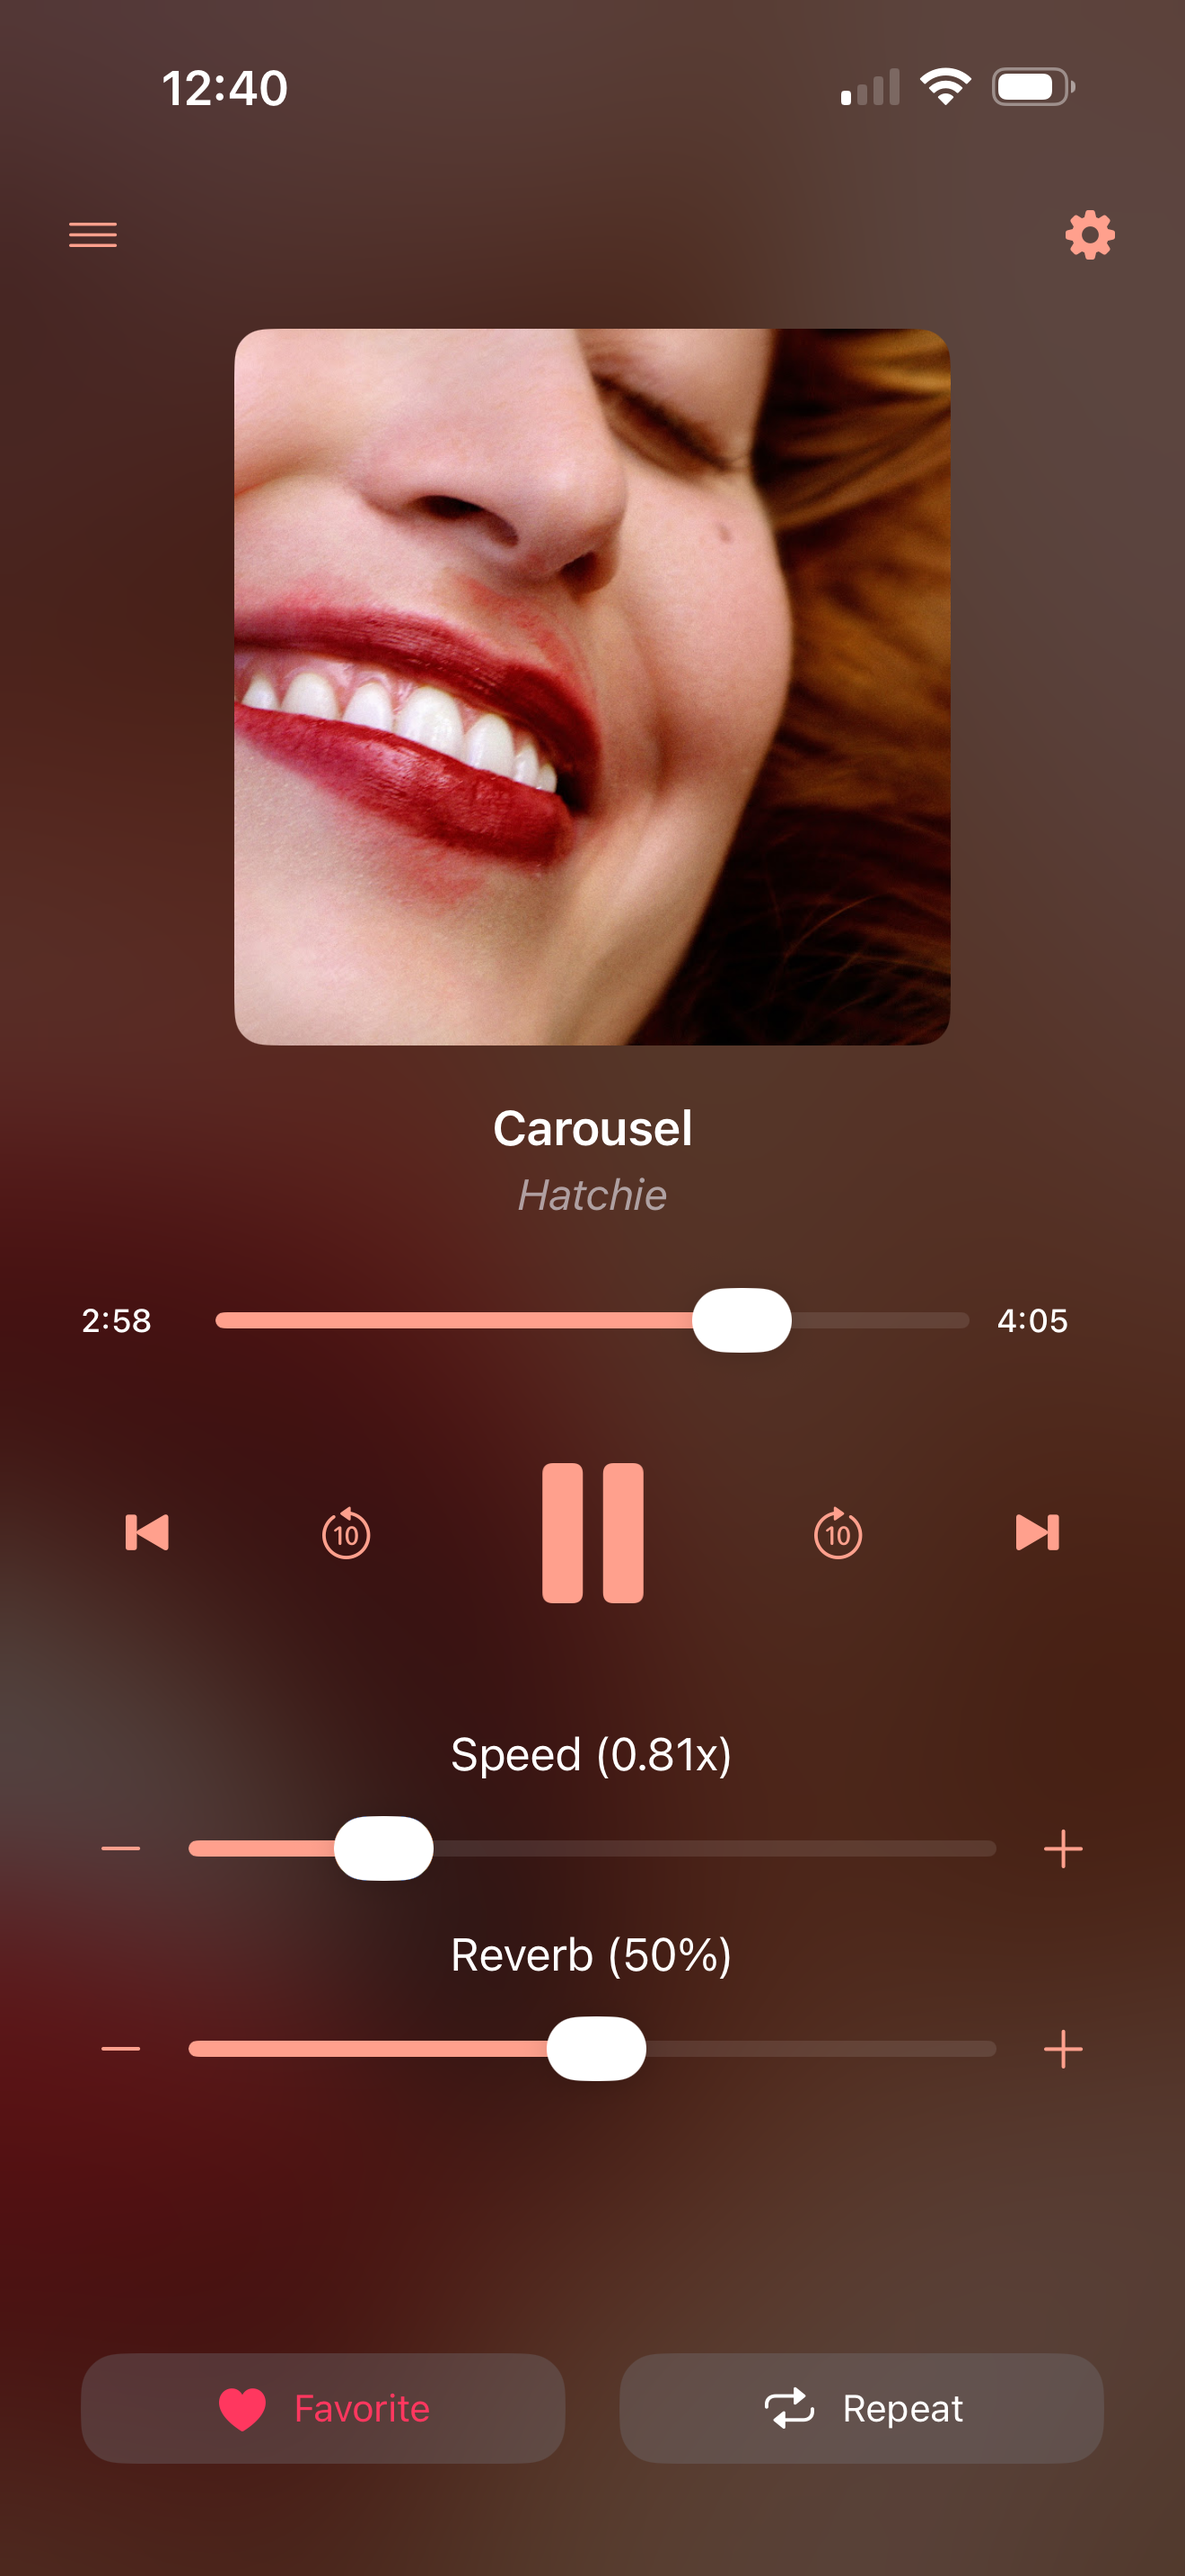
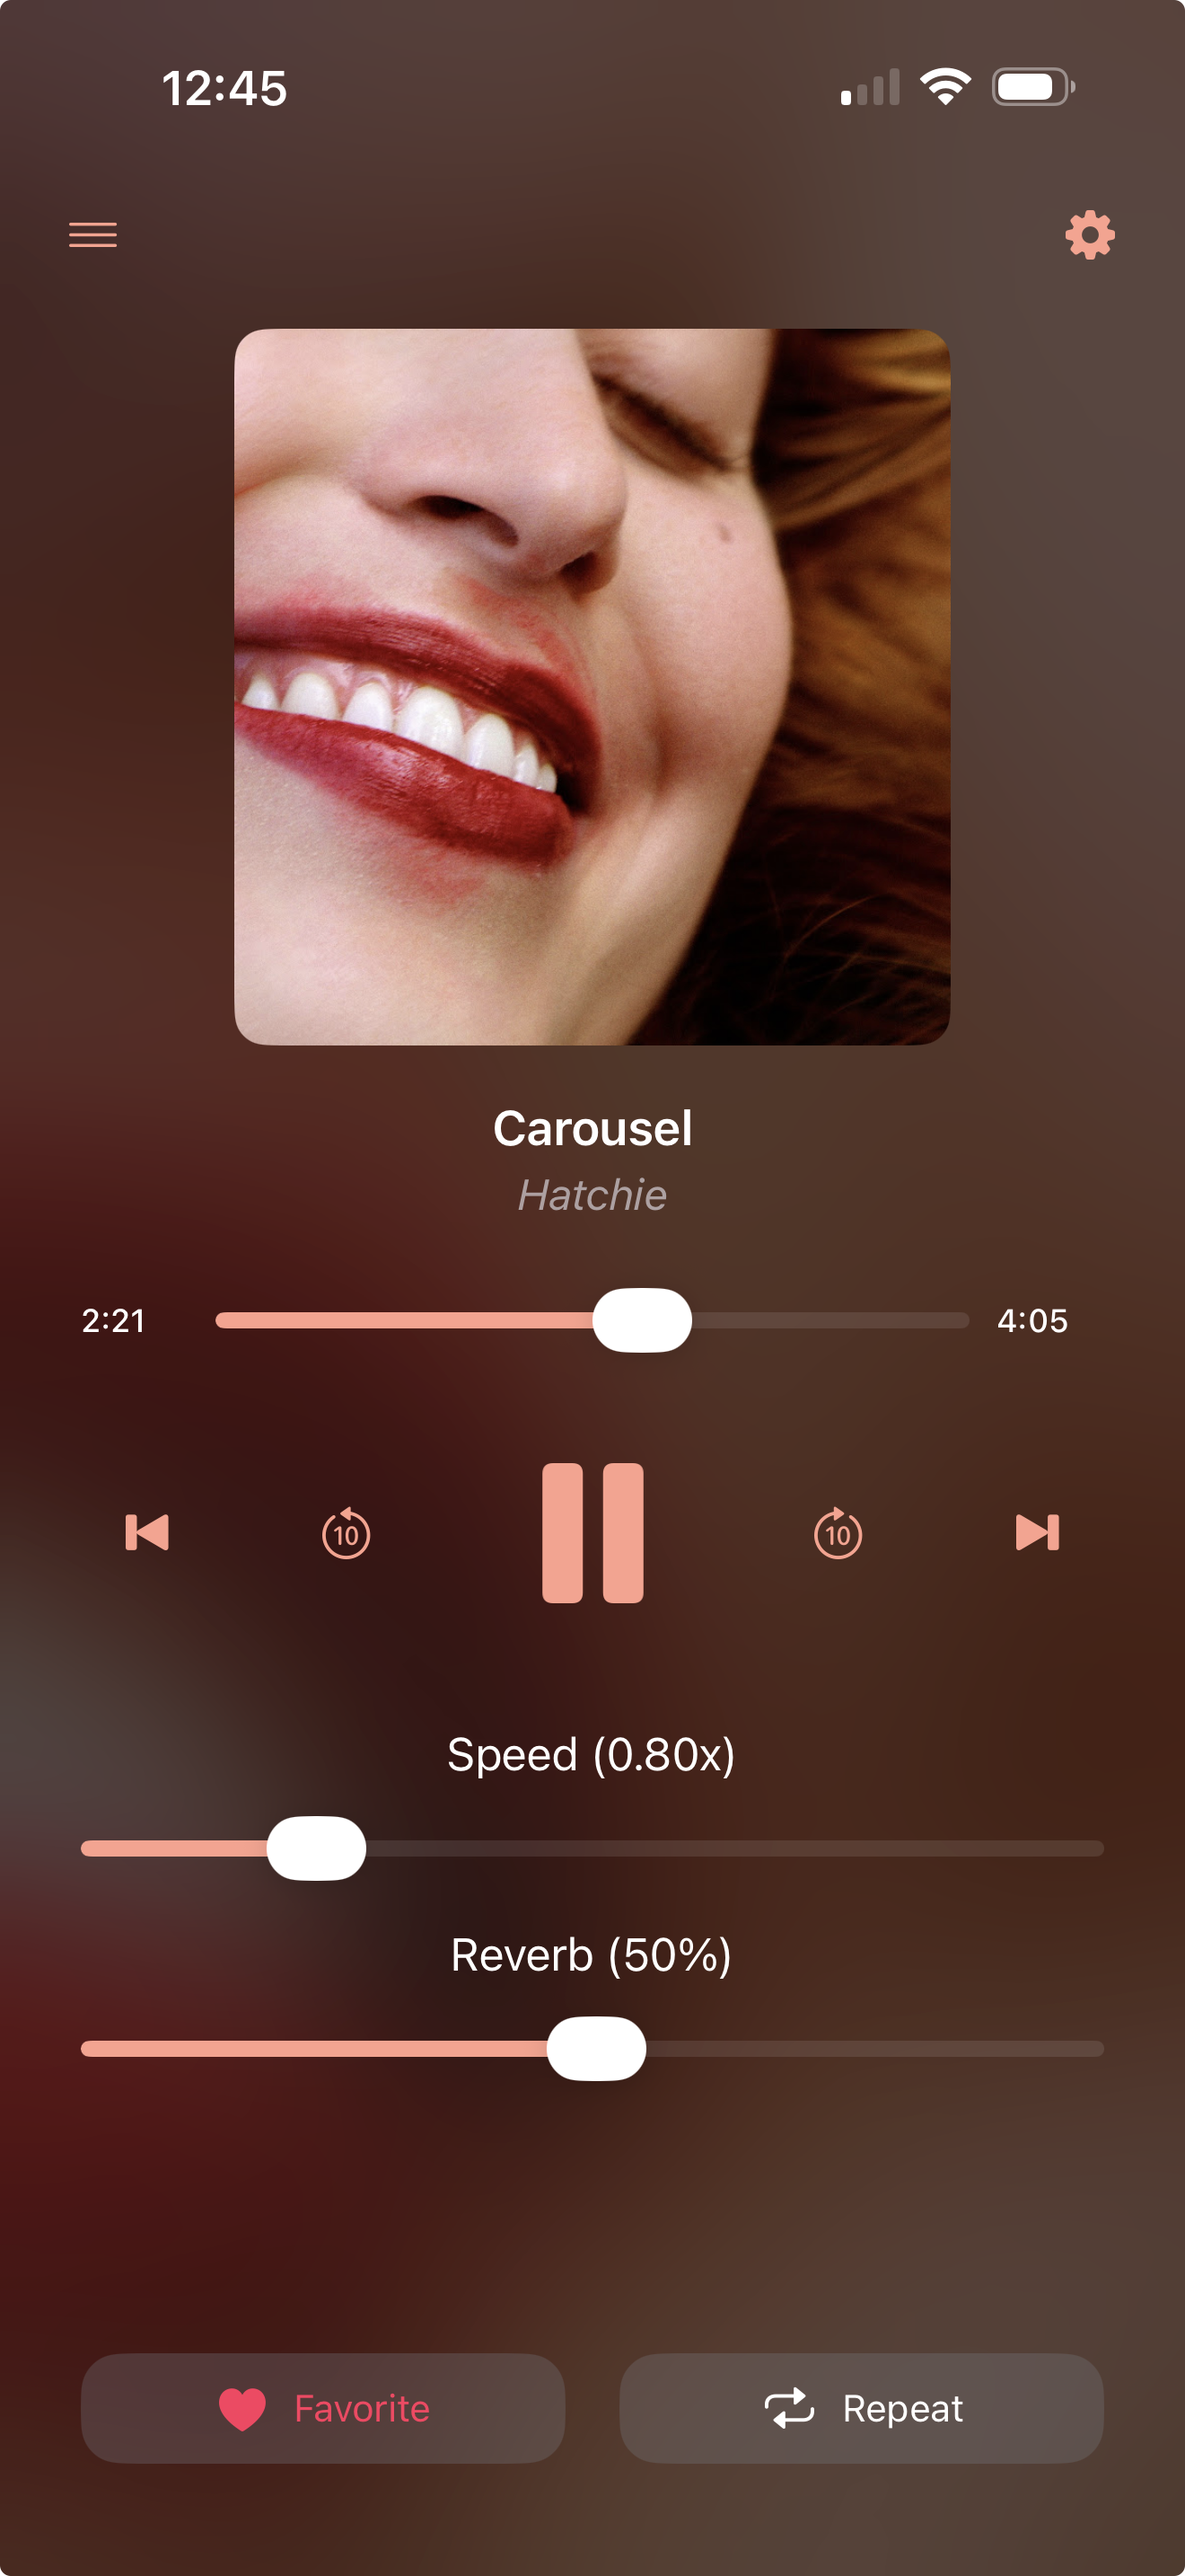
Fix Slider Position on Startup
Slider position for pitch, speed and reverb now remember what they were when closing and starting up the app again

diff --git a/slowedandreverb/slowedandreverbApp.swift b/slowedandreverb/slowedandreverbApp.swift
@@ -3592,11 +3592,28 @@ class AudioEffectsViewController: UIViewController, SettingsViewControllerDelega
     private var currentQueueIndex: Int = -1
     private var currentPresetIndex: Int?
     
+    // Cached initial values
+    private var initialSavedPitch: Float = 0
+    private var initialSavedSpeed: Float = 1.0
+    private var initialSavedReverb: Float = 0
+    private var initialSavedBass: Float = 0
+    private var initialSavedMids: Float = 0
+    private var initialSavedTreble: Float = 0
+
     // MARK: View Lifecycle
     
     private var hasLoadedInitialState = false
 
     override func viewDidLoad() {
+        // Cache initial slider values before any UI initialization can overwrite them
+        self.initialSavedPitch = UserDefaults.standard.float(forKey: "pitchValue")
+        let savedSpeedObj = UserDefaults.standard.object(forKey: "speedValue")
+        self.initialSavedSpeed = savedSpeedObj != nil ? UserDefaults.standard.float(forKey: "speedValue") : 1.0
+        self.initialSavedReverb = UserDefaults.standard.float(forKey: "reverbValue")
+        self.initialSavedBass = UserDefaults.standard.float(forKey: "bassValue")
+        self.initialSavedMids = UserDefaults.standard.float(forKey: "midsValue")
+        self.initialSavedTreble = UserDefaults.standard.float(forKey: "trebleValue")
+        
         self.isAccurateSpeedEnabled = UserDefaults.standard.bool(forKey: "isAccurateSpeedEnabled")
         self.isAccuratePitchEnabled = UserDefaults.standard.bool(forKey: "isAccuratePitchEnabled")
         self.isLoopingEnabled = UserDefaults.standard.bool(forKey: "isLoopingEnabled")
@@ -4286,7 +4303,9 @@ class AudioEffectsViewController: UIViewController, SettingsViewControllerDelega
         
         // Reset to initial values
         if isHidden || !isRememberSettingsEnabled {
-            resetSliders()
+            if hasLoadedInitialState {
+                resetSliders()
+            }
         }
         
         playPauseButton.setImage(UIImage(systemName: "play.fill"), for: .normal)
@@ -4384,6 +4403,10 @@ class AudioEffectsViewController: UIViewController, SettingsViewControllerDelega
     
     private func setupStatePersistence() {
         NotificationCenter.default.addObserver(self, selector: #selector(savePlaybackPosition), name: UIApplication.didEnterBackgroundNotification, object: nil)
+        NotificationCenter.default.addObserver(self, selector: #selector(savePlaybackPosition), name: UIApplication.willTerminateNotification, object: nil)
+        if #available(iOS 13.0, *) {
+            NotificationCenter.default.addObserver(self, selector: #selector(savePlaybackPosition), name: UIScene.didDisconnectNotification, object: nil)
+        }
     }
     
     @objc private func savePlaybackPosition() {
@@ -4474,28 +4497,22 @@ class AudioEffectsViewController: UIViewController, SettingsViewControllerDelega
                 loadSong(song, andPlay: false)
             
                 // Restore slider values AFTER loading the song so they aren't reset to defaults
-                let pitch = UserDefaults.standard.float(forKey: "pitchValue")
-                pitchSlider.value = pitch
+                pitchSlider.value = initialSavedPitch
                 pitchSliderChanged(pitchSlider)
                 
-                let speed = UserDefaults.standard.float(forKey: "speedValue")
-                speedSlider.value = speed != 0 ? speed : 1.0 // Default to 1.0 if not set
+                speedSlider.value = initialSavedSpeed != 0 ? initialSavedSpeed : 1.0 // Default to 1.0 if not set
                 speedSliderChanged(speedSlider)
                 
-                let reverb = UserDefaults.standard.float(forKey: "reverbValue")
-                reverbSlider.value = reverb
+                reverbSlider.value = initialSavedReverb
                 reverbSliderChanged(reverbSlider)
                 
-                let bass = UserDefaults.standard.float(forKey: "bassValue")
-                bassSlider.value = bass
+                bassSlider.value = initialSavedBass
                 bassSliderChanged(bassSlider)
                 
-                let mids = UserDefaults.standard.float(forKey: "midsValue")
-                midsSlider.value = mids
+                midsSlider.value = initialSavedMids
                 midsSliderChanged(midsSlider)
                 
-                let treble = UserDefaults.standard.float(forKey: "trebleValue")
-                trebleSlider.value = treble
+                trebleSlider.value = initialSavedTreble
                 trebleSliderChanged(trebleSlider)
                 
                 // Restore playback position after the file is loaded
@@ -5334,20 +5351,6 @@ class AudioEffectsViewController: UIViewController, SettingsViewControllerDelega
         
         UserDefaults.standard.set(song.id.uuidString, forKey: "lastSongID")
         
-        // Apply saved values if they exist
-        if let savedPitch = song.savedPitch {
-            pitchSlider.value = savedPitch
-            pitchSliderChanged(pitchSlider)
-        }
-        if let savedSpeed = song.savedSpeed {
-            speedSlider.value = savedSpeed
-            speedSliderChanged(speedSlider)
-        }
-        if let savedReverb = song.savedReverb {
-            reverbSlider.value = savedReverb
-            reverbSliderChanged(reverbSlider)
-        }
-        
         // Load the audio file and get its metadata
         if let metadata = audioProcessor.loadAudioFile(url: url) {
             // Update UI with file information
@@ -5390,6 +5393,20 @@ class AudioEffectsViewController: UIViewController, SettingsViewControllerDelega
             // Re-apply EQ slider visibility based on user settings
             let isEQEnabled = UserDefaults.standard.bool(forKey: "isEQEnabled")
             settingsViewController(SettingsViewController(), didChangeShowEQState: isEQEnabled)
+
+            // Apply saved values if they exist, AFTER resetting controls state so they aren't overwritten
+            if let savedPitch = song.savedPitch {
+                pitchSlider.value = savedPitch
+                pitchSliderChanged(pitchSlider)
+            }
+            if let savedSpeed = song.savedSpeed {
+                speedSlider.value = savedSpeed
+                speedSliderChanged(speedSlider)
+            }
+            if let savedReverb = song.savedReverb {
+                reverbSlider.value = savedReverb
+                reverbSliderChanged(reverbSlider)
+            }
 
             // Update progress slider and labels for the new song
             let duration = audioProcessor.getAudioDuration()
